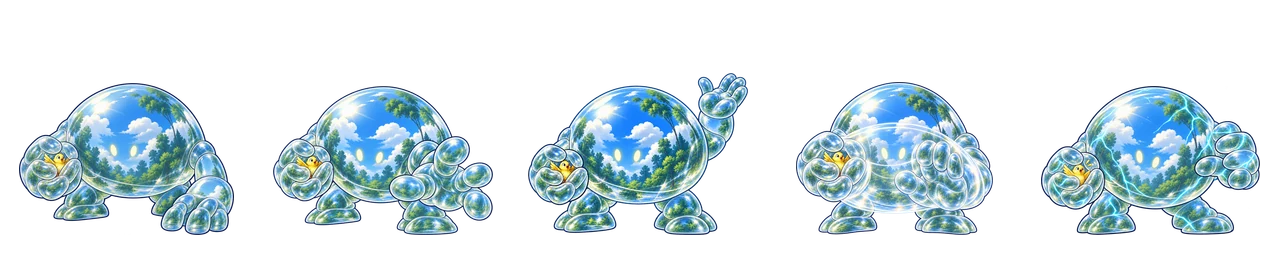
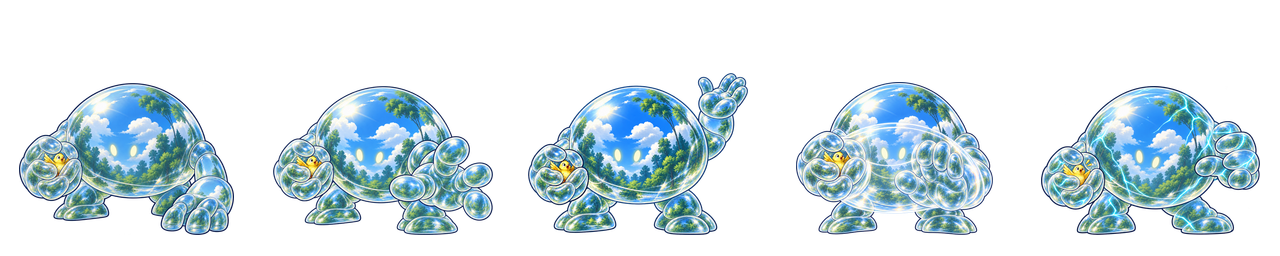
image upgrade

diff --git a/js/battle-view.js b/js/battle-view.js
@@ -11,6 +11,14 @@ function cinematicBattleLayout(w,h,rank){
 function stopBattleView(){if(BATTLE_VIEW_OBSERVER){BATTLE_VIEW_OBSERVER.disconnect();BATTLE_VIEW_OBSERVER=null;}window.removeEventListener('resize',sizeBattleView);}
 function sizeBattleView(){const scene=$('bscene'),field=$('bfield');if(!scene||!scene.classList.contains('cinematic-battle')||!field)return;const w=field.clientWidth,h=field.clientHeight;if(!w||!h)return;
  const l=cinematicBattleLayout(w,h,scene.dataset.rank),set=(el,x,y,n)=>Object.assign(el.style,{left:x+'px',right:'auto',bottom:y+'px',width:n+'px',height:n+'px'});
- set($('bme'),l.heroX,l.heroY,l.hero);set($('bfoe'),l.foeX,l.foeY,l.foe);scene.style.setProperty('--strike-x',(l.foeX+l.foe/2-l.heroX-l.hero/2)*.14+'px');scene.style.setProperty('--strike-y',-Math.max(12,(l.foeY-l.heroY)*.6)+'px');
+ set($('bme'),l.heroX,l.heroY,l.hero);
+ if(field.querySelector('.tower-elite-art')){
+  // Preserve the old 1.15x visible footprint in the layout box, not a second
+  // transformed texture. Align the final box to physical display pixels.
+  const dpr=window.devicePixelRatio||1,snap=v=>Math.round(v*dpr)/dpr,r=field.getBoundingClientRect();
+  const n=snap(l.foe*1.15),x=l.foeX-l.foe*.075,y=l.foeY-l.foe*.015;
+  set($('bfoe'),snap(r.left+x)-r.left,r.bottom-snap(r.bottom-y),n);
+ }else set($('bfoe'),l.foeX,l.foeY,l.foe);
+ scene.style.setProperty('--strike-x',(l.foeX+l.foe/2-l.heroX-l.hero/2)*.14+'px');scene.style.setProperty('--strike-y',-Math.max(12,(l.foeY-l.heroY)*.6)+'px');
 }
 function startBattleView(){stopBattleView();sizeBattleView();const field=$('bfield');if(!field)return;if(typeof ResizeObserver!=='undefined'){BATTLE_VIEW_OBSERVER=new ResizeObserver(sizeBattleView);BATTLE_VIEW_OBSERVER.observe(field);}window.addEventListener('resize',sizeBattleView);}

diff --git a/css/style.css b/css/style.css
@@ -1021,7 +1021,9 @@ button.opt{width:100%;text-align:left;font:inherit;font-size:15px;line-height:1.
 .tower-elite-art[data-pose="2"]{background-position:50% 0}
 .tower-elite-art[data-pose="3"]{background-position:75% 0}
 .tower-elite-art[data-pose="4"]{background-position:100% 0}
-.cinematic-battle .bactor .tower-elite-art{width:100%!important;height:100%!important;transform:scale(1.15)}
+.cinematic-battle .bactor .tower-elite-art{width:100%!important;height:100%!important;transform:none}
+.cinematic-battle .bactor.foe:has(.tower-elite-art) .art{filter:none}
+.cinematic-battle .monster-scale:has(.tower-elite-art){filter:drop-shadow(0 4px 2px #080b1499)}
 
 /* Keep the craft station's existing three-frame animation while matching each world. */
 #worldRoot #wart-craft .pxa{image-rendering:auto}

diff --git a/docs/TOWER_ART_SHARPNESS.md b/docs/TOWER_ART_SHARPNESS.md
@@ -1,0 +1,50 @@
+# 탑 상위 중간보스 화질 점검 — 2026-10-06
+
+## 현재 상태
+
+렌더링 및 손실 압축 개선까지 적용했다. **고해상도 원본 교체는 미완료**이며 사용자가 집에서 이어서 작업하기로 했다. GitHub 최신 `66f5c2f`와 보스 에셋 추가 커밋 `4fd3805`에도 축소 전 생성 PNG/manifest는 없다. `tower-frames`의 PNG들은 256×256으로 이미 정규화된 자료다. 파일명을 유지했고 저해상도 이미지를 업스케일하거나 다시 생성하지 않았다. commit/push 없음.
+
+## 원인과 수정
+
+- 제작 도구가 생성 이미지를 256px 셀로 축소하고 WebP quality 88로 손실 압축했다.
+- 실제 캐릭터와 효과의 알파 영역은 프레임별 약 165~224px 폭, 132~210px 높이에 불과했다.
+- 전투에서는 반응형 크기에 추가 `scale(1.15)`를 적용했다. 1280×620에서 셀 하나가 365.88px, 1920×1080에서 약 775px까지 확대됐다.
+- PNG 40개를 직접 보면 얼굴과 외곽선은 작은 크기에서 선명하다. 고해상도 생성 원본이 없으므로 생성 자체의 흐림 여부는 확정할 수 없다. 웹 화면에서 확대될 때 상세 묘사가 부드러워지는 문제는 여전히 남는다.
+- 기존 PNG를 resize 없이 무손실 WebP로 재조립했다. 알파 영역과 5프레임 순서는 유지했다.
+- `battle-view.js`에서 1.15배 크기를 실제 레이아웃 박스에 반영했다. 이전 transform-origin(50%, 90%)과 같은 표시 위치를 계산하고 최종 박스를 물리 픽셀에 맞춘다. 플레이어와 기존 몬스터 경로는 유지했다.
+- 중간보스의 추가 transform 확대와 겹친 외곽 필터를 제거했다. 한 개의 약한 그림자와 기존 바닥 그림자는 유지한다. CSS background를 사용하며 몬스터 Canvas는 없다.
+- 빌더의 새 원본 조립 목표는 832×832(스트립 4160×832)이다. 측정된 데스크톱 최대 775px보다 커야 하기 때문이다. 원본이 작으면 오류로 중단해 업스케일을 막는다. `--pack-existing`은 현재 프레임 크기를 그대로 사용한다.
+
+## 에셋 기록
+
+모든 8종: PNG 256×256, WebP strip 1280×256 → **해상도는 현재 동일**. 재제작 없음.
+
+| ID | 이전 strip bytes | 이후 strip bytes | PNG 대비 RGB 오차 평균: 이전 → 이후 |
+|---|---:|---:|---:|
+| leftovers | 102276 | 285960 | 7.01 → 0.012 |
+| disposables | 103198 | 286066 | 7.54 → 0.016 |
+| algae | 120426 | 318930 | 7.90 → 0.019 |
+| nightglare (LIGHT_BOT_MK2) | 116476 | 331712 | 15.91 → 0.017 |
+| glasswall | 90526 | 274740 | 10.86 → 0.010 |
+| powerstrip | 111090 | 281492 | 11.02 → 0.028 |
+| poacher | 94458 | 242560 | 10.43 → 0.014 |
+| carbon | 103908 | 314454 | 9.83 → 0.011 |
+
+오차는 알파 20 이상 픽셀의 RGB RMSE를 각 5프레임에 대해 계산한 평균이다. 0.01~0.03 수준의 차이는 투명 프레임 합성 반올림에 해당한다. 다운로드 크기는 증가했지만 디코딩한 RGBA 메모리는 이전과 같은 strip당 1.25MiB다. 제품에 이미지 사전 로딩이나 렌더 루프를 추가하지 않았다.
+
+## 브라우저 확인
+
+실제 로컬 브라우저의 전투 DOM에서 8×5=40프레임을 선택하고 캡처했다. 원본 PNG 40프레임과 브라우저 캡처 40프레임을 직접 검토했다. 동일한 약 366px 크기의 기존 숲 보스(512px 원본)와 비교했다. 기존 보스보다 큰 화면의 상세 묘사는 여전히 부드럽다. 고해상도 원본 복원 전에는 최종 선명도 기준을 충족했다고 볼 수 없다.
+
+- 1280×620: 40프레임 모두 366px 박스, transform 없음, 포즈 변경 중 박스 이동/크기 변경 없음. 얼굴·핵심 소품 식별 가능, 분리 조각 및 알파 본체 잘림 없음.
+- 1024×600 / 1280×800 / 1366×900 / 1920×1080: 각각 348 / 521 / 612 / 775px 표시. 반응형 크기 유지. 투명 여백 일부는 박스 밖에 있으나 본체는 화면 안에 있다.
+- 100회 프레임 전환: 데스크톱 브라우저 평균 16.62ms, 최대 16.9ms, 포착된 JavaScript 오류 0. 큰 이미지 재생성 전의 테스트이며 실제 Galaxy Tab S5e 성능을 증명하지 않는다.
+- **Galaxy Tab S5e 실물 테스트는 하지 않았다.** 1280×620, 1024×600의 유사 가로 viewport로 검증했다.
+
+## 이어서 할 일
+
+1. 집 PC의 `~/.codex/generated_images` 등에 남은 40개 축소 전 생성 PNG와 manifest를 찾는다. 현재 GitHub의 `tower-frames/*.png`를 고해상도 원본으로 간주하면 안 된다.
+2. 실제 원본의 선명도를 확인한 뒤 위 빌더로 직접 조립한다. 원본이 작은 경우 확대하지 않는다. 새 이미지 제작이 필요하면 기존 확정 디자인과 각 포즈를 참고해 작업한다.
+3. 다시 40프레임과 S5e 유사 viewport, 가능한 경우 실물 기기에서 선명도·로딩·프레임 전환을 확인한다.
+
+검증 도구: `tests/audit-tower-art.cjs`, `tests/serve-tower-art.cjs`, `tests/review-tower-art.cjs`. 제품 HTML에서 로드하지 않는다. 상세 JSON/캡처는 현재 채팅의 `tower-sharpness-2026-10-06` 로컬 검증 폴더에 있다.
